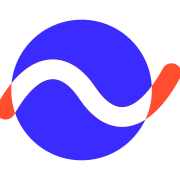
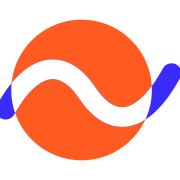
Orange theme; show pay where sources publish it
Claude-Session: https://claude.ai/code/session_013N9p52DarN9p1Kez5K4ikq

diff --git a/static/index.html b/static/index.html
@@ -17,8 +17,8 @@
    Pipeline tracks what you saved and applied to; Pulse reads the market from the same feed. */
 :root{
   --bg:#F4F4F6; --surface:#FFFFFF; --ink:#0D0D16; --muted:#5B5B6B; --line:#E1E1E8;
-  --accent:#3A2BFF; --accent-ink:#FFFFFF; --accent-soft:#ECEAFF;
-  --hot:#FF4D2E; --new:#C7300F; --new-soft:#FFE9E3;
+  --fill:#FF5A1F; --accent:#C2410C; --accent-ink:#0D0D16; --accent-soft:#FFEDE3;
+  --hot:#3A2BFF; --new:#3A2BFF; --new-soft:#ECEAFF;
   --apac:#0E7490; --world:#7C3AED; --locked:#BE123C;
   --display:"Bricolage Grotesque","Segoe UI",system-ui,sans-serif;
   --body:"Inter",system-ui,-apple-system,"Segoe UI",sans-serif;
@@ -40,7 +40,7 @@ header{padding-block:calc(16px + env(safe-area-inset-top,0px)) 0;display:flex;ga
 .brand{display:flex;align-items:center;gap:10px;text-decoration:none;color:var(--ink)}
 .brand svg{width:38px;height:38px;flex:none}
 .brand b{font:800 24px/1 var(--display);letter-spacing:-.035em}
-.brand b span{color:var(--accent)}
+.brand b span{color:var(--fill)}
 .meta{font:12px/1.4 var(--mono);color:var(--muted)}
 nav{display:flex;gap:2px;border:1px solid var(--line);border-radius:10px;padding:3px;background:var(--surface);margin-block:14px 6px;width:100%}
 nav a{flex:1;text-align:center;padding:8px 4px;border-radius:7px;font-size:14px;color:var(--muted);text-decoration:none;white-space:nowrap}
@@ -50,7 +50,7 @@ nav a .n{font:11px var(--mono);margin-left:4px;opacity:.8}
 /* shared bits */
 .btn{border:1px solid var(--line);background:var(--surface);border-radius:10px;padding:9px 14px;cursor:pointer;font-size:14px}
 .btn:hover{border-color:var(--accent)}
-.btn.pri{background:var(--accent);border-color:var(--accent);color:var(--accent-ink);font-weight:600}
+.btn.pri{background:var(--fill);border-color:var(--fill);color:var(--accent-ink);font-weight:600}
 .btn.sm{padding:5px 10px;font-size:13px;border-radius:8px}
 .lbl{font:600 10.5px/1 var(--body);letter-spacing:.08em;text-transform:uppercase;color:var(--muted)}
 .chips{display:flex;gap:6px;flex-wrap:wrap;align-items:center}
@@ -59,7 +59,8 @@ nav a .n{font:11px var(--mono);margin-left:4px;opacity:.8}
 .chip .n{font:11px var(--mono);opacity:.75;margin-left:4px}
 .t{font:500 11px/1 var(--mono);padding:4px 7px;border-radius:6px;border:1px solid var(--line);color:var(--muted);white-space:nowrap}
 .t.who{color:var(--c);border-color:color-mix(in srgb,var(--c) 45%,transparent);background:color-mix(in srgb,var(--c) 10%,transparent)}
-.t.hit{color:var(--accent-ink);background:var(--accent);border-color:var(--accent)}
+.t.hit{color:var(--accent-ink);background:var(--fill);border-color:var(--fill)}
+.t.pay{color:var(--ink);border-color:var(--ink)}
 .t.new{color:var(--new);background:var(--new-soft);border-color:transparent}
 .t.warn{color:var(--new);border-color:var(--new)}
 .tags{display:flex;gap:5px;flex-wrap:wrap;align-items:center}
@@ -77,7 +78,7 @@ h2{font:700 22px/1.25 var(--display);letter-spacing:-.02em;margin:18px 0 4px;tex
 .prog{display:flex;gap:4px;margin:10px 0 14px}
 .prog i{flex:1;height:4px;border-radius:2px;background:var(--line)}
 .prog i.done{background:var(--accent)}
-.prog i.cur{background:var(--hot)}
+.prog i.cur{background:var(--fill)}
 .deck{position:relative;padding-bottom:14px}
 .deck::before,.deck::after{content:"";position:absolute;left:10px;right:10px;bottom:7px;height:20px;border:1px solid var(--line);border-top:0;border-radius:0 0 10px 10px;background:var(--surface)}
 .deck::after{left:20px;right:20px;bottom:0}
@@ -149,7 +150,7 @@ ol.feed{list-style:none;margin:0;padding:0;display:grid;gap:8px}
 .bar .nm{overflow:hidden;text-overflow:ellipsis;white-space:nowrap}
 .bar .nm.mine{font-weight:600;color:var(--accent)}
 .bar .tr{height:10px;border-radius:5px;background:var(--bg);overflow:hidden}
-.bar .tr i{display:block;height:100%;border-radius:5px;background:var(--accent)}
+.bar .tr i{display:block;height:100%;border-radius:5px;background:var(--fill)}
 .bar .v{font:12px var(--mono);color:var(--muted);text-align:right;font-variant-numeric:tabular-nums}
 .split{display:flex;height:16px;border-radius:8px;overflow:hidden;gap:2px;margin-bottom:10px}
 .split i{display:block;background:var(--c);min-width:3px}
@@ -173,11 +174,11 @@ nav a[aria-current="page"]{background:var(--ink);color:#fff}
 .btn{border-radius:999px;font-weight:600;border-color:var(--ink)}
 .btn.sm{border-radius:999px}
 .btn:hover{border-color:var(--accent);color:var(--accent)}
-.btn.pri:hover{color:var(--accent-ink);background:var(--ink);border-color:var(--ink)}
+.btn.pri:hover{color:#fff;background:var(--ink);border-color:var(--ink)}
 .chip[aria-pressed="true"]{background:var(--ink);border-color:var(--ink);color:#fff}
 h2{font-weight:800;font-size:28px;letter-spacing:-.03em}
 .panel,.job,.pc{border-radius:14px}
-.card{border:2px solid var(--ink);border-radius:18px;box-shadow:6px 6px 0 var(--accent);padding:20px}
+.card{border:2px solid var(--ink);border-radius:18px;box-shadow:6px 6px 0 var(--fill);padding:20px}
 .card h3{font-weight:800;font-size:27px;letter-spacing:-.03em;line-height:1.1}
 .card .age{color:var(--accent);font-weight:500}
 .deck{padding:0 6px 6px 0}
@@ -185,7 +186,7 @@ h2{font-weight:800;font-size:28px;letter-spacing:-.03em}
 .acts{margin-top:18px}
 .prog i{height:6px;border-radius:3px}
 .prog i.done{background:var(--ink)}
-.stat b{color:var(--accent);font-size:34px}
+.stat b{color:var(--fill);font-size:34px}
 .out svg{width:84px}
 .out h3{font-weight:800;font-size:26px}
 .col h4{border-bottom-color:var(--ink)}
@@ -197,7 +198,7 @@ h2{font-weight:800;font-size:28px;letter-spacing:-.03em}
 <div class="wrap">
 <header>
   <a class="brand" href="#today">
-    <svg viewBox="0 0 64 64" aria-hidden="true"><clipPath id="in"><circle cx="29" cy="32" r="25"/></clipPath><circle cx="29" cy="32" r="25" fill="#3A2BFF"/><path d="M2 39 C12 21 23 21 31 33 S50 46 61 26" fill="none" stroke="#FF4D2E" stroke-width="7" stroke-linecap="round"/><path d="M2 39 C12 21 23 21 31 33 S50 46 61 26" fill="none" stroke="#FFFFFF" stroke-width="7" stroke-linecap="round" clip-path="url(#in)"/></svg>
+    <svg viewBox="0 0 64 64" aria-hidden="true"><clipPath id="in"><circle cx="29" cy="32" r="25"/></clipPath><circle cx="29" cy="32" r="25" fill="#FF5A1F"/><path d="M2 39 C12 21 23 21 31 33 S50 46 61 26" fill="none" stroke="#3A2BFF" stroke-width="7" stroke-linecap="round"/><path d="M2 39 C12 21 23 21 31 33 S50 46 61 26" fill="none" stroke="#FFFFFF" stroke-width="7" stroke-linecap="round" clip-path="url(#in)"/></svg>
     <b>shoreless<span>.dev</span></b>
   </a>
   <div style="display:flex;gap:10px;align-items:center;flex-wrap:wrap">
@@ -251,7 +252,7 @@ let batch=[],pos=0,undo=[],limit=60;
 const saveT=()=>store.set("triage",T);
 const saveP=()=>store.set("profile",P);
 const saveB=()=>store.set("browse",B);
-const snap=j=>({id:j.id,title:j.title,company:j.company,url:j.url,location:j.location,region:j.region,remote:j.remote,source:j.source});
+const snap=j=>({id:j.id,pay:j.pay,title:j.title,company:j.company,url:j.url,location:j.location,region:j.region,remote:j.remote,source:j.source});
 
 /* ---------- fit ---------- */
 function fit(j){
@@ -294,7 +295,7 @@ function undoLast(){const u=undo.pop();if(!u)return;if(u.prev)T[u.id]=u.prev;els
 function nextRefresh(){const d=new Date();const n=new Date(Date.UTC(d.getUTCFullYear(),d.getUTCMonth(),d.getUTCDate(),Math.floor(d.getUTCHours()/6)*6,20));
   while(n<=d)n.setUTCHours(n.getUTCHours()+6);const hrs=(n-d)/36e5;return hrs<1?Math.round(hrs*60)+" minutes":Math.round(hrs)+(Math.round(hrs)===1?" hour":" hours")}
 function horizon(){const s=document.createElementNS("http://www.w3.org/2000/svg","svg");s.setAttribute("viewBox","0 0 64 64");s.setAttribute("aria-hidden","true");
-  s.innerHTML='<clipPath id="in2"><circle cx="29" cy="32" r="25"/></clipPath><circle cx="29" cy="32" r="25" fill="#3A2BFF"/><path d="M2 39 C12 21 23 21 31 33 S50 46 61 26" fill="none" stroke="#FF4D2E" stroke-width="7" stroke-linecap="round"/><path d="M2 39 C12 21 23 21 31 33 S50 46 61 26" fill="none" stroke="#FFFFFF" stroke-width="7" stroke-linecap="round" clip-path="url(#in2)"/>';return s}
+  s.innerHTML='<clipPath id="in2"><circle cx="29" cy="32" r="25"/></clipPath><circle cx="29" cy="32" r="25" fill="#FF5A1F"/><path d="M2 39 C12 21 23 21 31 33 S50 46 61 26" fill="none" stroke="#3A2BFF" stroke-width="7" stroke-linecap="round"/><path d="M2 39 C12 21 23 21 31 33 S50 46 61 26" fill="none" stroke="#FFFFFF" stroke-width="7" stroke-linecap="round" clip-path="url(#in2)"/>';return s}
 
 function vToday(){
   const el=h("div",{class:"today"});
@@ -329,7 +330,8 @@ function vToday(){
       h("div",{},h("dt",{},"Where"),h("dd",{},j.location||(j.remote?"Remote":"—"))),
       h("div",{},h("dt",{},"Apply"),h("dd",{},direct(j)?"Direct to employer":"via "+j.source)),
       h("div",{},h("dt",{},"Posted"),h("dd",{},j.posted?ago(j.posted)+" ago":"Date not given")),
-      h("div",{},h("dt",{},"Role"),h("dd",{},j.role+(j.level==="Senior+"?" · Senior+":"")))),
+      h("div",{},h("dt",{},"Pay"),h("dd",{},j.pay||"Not listed")),
+      h("div",{},h("dt",{},"Role"),h("dd",{},j.role+(j.level==="Senior+"?" · Senior+":"")+(j.etype?" · "+j.etype:"")))),
     (j.stack||[]).length?h("div",{class:"tags"},stackTags(j,8)):null,
     h("p",{class:"why"},reasons.length?["Ranked here because it ",reasons.flatMap((r,i)=>[i?(i===reasons.length-1?" and ":", "):"",r]),"."]:"Ranked on role and region only. Its description names none of your stack."),
     h("a",{class:"open",href:j.url,target:"_blank",rel:"noopener"},"Read the full posting ↗"));
@@ -363,6 +365,7 @@ function browseList(ignore){
     if(ignore!=="stack"&&B.stacks.length&&!B.stacks.some(x=>(j.stack||[]).includes(x)))return false;
     if(B.direct&&!direct(j))return false;
     if(B.supply&&!j.supply)return false;
+    if(B.pay&&!j.pay)return false;
     if(B.senior&&j.level!=="Senior+")return false;
     if(j.posted&&j.posted<cut)return false;
     if(q&&!(j.title+" "+j.company+" "+j.location+" "+(j.stack||[]).join(" ")).toLowerCase().includes(q))return false;
@@ -392,7 +395,7 @@ function vBrowse(){
       return h("li",{class:"job"+(j._new?" is-new":"")+(st==="pass"?" dim":"")},
         h("div",{class:"top"},h("a",{class:"title",href:j.url,target:"_blank",rel:"noopener"},j.title),h("span",{class:"age"},ago(j.posted))),
         h("div",{class:"co"},j.company||"—",j.location&&h("span",{}," · "+j.location)),
-        h("div",{class:"tags"},j._new&&tag("NEW","new"),whoTag(j),tag(direct(j)?"Direct":"via "+j.source),stackTags(j,4),j.supply&&tag("Supply chain"),
+        h("div",{class:"tags"},j._new&&tag("NEW","new"),whoTag(j),j.pay&&tag(j.pay,"pay"),tag(direct(j)?"Direct":"via "+j.source),stackTags(j,4),j.supply&&tag("Supply chain"),
           h("span",{class:"ra"},
             st&&st!=="pass"&&st!=="saved"?tag(STAGES.find(s=>s[0]===st)[1]):
               h("button",{class:"ic",type:"button","aria-pressed":String(st==="saved"),onclick:()=>{setStage(j,st==="saved"?null:"saved");paintList()}},st==="saved"?"★ Saved":"☆ Save"),
@@ -408,7 +411,7 @@ function vBrowse(){
     h("div",{class:"line"},h("span",{class:"lbl"},"Role"),ROLES.map(r=>chip(r,R.includes(r),()=>{tog(R,r);re()},cr[r]||0))),
     h("div",{class:"line"},h("span",{class:"lbl"},"Stack"),topS.map(s=>chip(s,B.stacks.includes(s),()=>{tog(B.stacks,s);re()},cs[s]||0))),
     h("div",{class:"line"},h("span",{class:"lbl"},"Only"),
-      chip("Direct apply",B.direct,()=>{B.direct=!B.direct;re()}),chip("Supply chain",B.supply,()=>{B.supply=!B.supply;re()}),
+      chip("Shows pay",B.pay,()=>{B.pay=!B.pay;re()}),chip("Direct apply",B.direct,()=>{B.direct=!B.direct;re()}),chip("Supply chain",B.supply,()=>{B.supply=!B.supply;re()}),
       chip("Senior+",B.senior,()=>{B.senior=!B.senior;re()}),chip("Hide passed",B.hidePassed,()=>{B.hidePassed=!B.hidePassed;re()}))),
     count,list,more);
   paintList();return el;
@@ -452,7 +455,7 @@ function vPulse(){
       h("div",{class:"panel stat"},h("b",{},String(open.length)),h("span",{},"roles you can apply to")),
       h("div",{class:"panel stat"},h("b",{},String(wk.length)),h("span",{},"of them posted in the last 7 days")),
       h("div",{class:"panel stat"},h("b",{},pct(open.filter(direct).length,open.length)+"%"),h("span",{},"apply direct to the employer")),
-      h("div",{class:"panel stat"},h("b",{},pct(cw.locked||0,jobs.length)+"%"),h("span",{},"of all roles in the feed are region-locked"))));
+      h("div",{class:"panel stat"},h("b",{},pct(open.filter(j=>j.pay).length,open.length)+"%"),h("span",{},"state their pay"))));
   const cs={};open.forEach(j=>(j.stack||[]).forEach(x=>cs[x]=(cs[x]||0)+1));
   const top=Object.entries(cs).sort((a,b)=>b[1]-a[1]).slice(0,12);
   const core=P.stacks.filter(x=>!GENERIC.has(x));

diff --git a/sources.py b/sources.py
@@ -37,17 +37,51 @@ def _strip(h):
     return html.unescape(re.sub(r"<[^>]+>", " ", h or "")).strip()
 
 
+def _num(x):
+    try:
+        v = float(x)
+        return v if v > 0 else None
+    except (TypeError, ValueError):
+        return None
+
+
+def _rng(lo, hi, cur, per="yr"):
+    lo, hi = _num(lo), _num(hi)
+    if not lo and not hi:
+        return None
+    return {"min": lo or hi, "max": hi or lo, "cur": (cur or "USD").upper(), "per": per}
+
+
+def _gh_pay(j):
+    r = j.get("pay_input_ranges") or []
+    if not r:
+        return None
+    return _rng((r[0].get("min_cents") or 0) / 100, (r[0].get("max_cents") or 0) / 100, r[0].get("currency_type"))
+
+
+def _lever_pay(j):
+    sr = j.get("salaryRange") or {}
+    iv = (sr.get("interval") or "").lower()
+    return _rng(sr.get("min"), sr.get("max"), sr.get("currency"), "hr" if "hour" in iv else "mo" if "month" in iv else "yr")
+
+
+def _ashby_pay(j):
+    c = j.get("compensation") or {}
+    t = c.get("scrapeableCompensationSalarySummary") or c.get("compensationTierSummary")
+    return {"text": t.split(" \u2022 ")[0].strip()[:40]} if t else None
+
+
 # ---------- company boards (ATS) ----------
 
 def greenhouse(slug, name, tags):
-    data = _get(f"https://boards-api.greenhouse.io/v1/boards/{slug}/jobs", params={"content": "true"}).json()
+    data = _get(f"https://boards-api.greenhouse.io/v1/boards/{slug}/jobs", params={"content": "true", "pay_transparency": "true"}).json()
     out = []
     for j in data.get("jobs", []):
         out.append(dict(
             title=j.get("title"), company=name, url=j.get("absolute_url"),
             location=(j.get("location") or {}).get("name", ""), remote=None, restrictions=None,
             posted=_iso(j.get("first_published") or j.get("updated_at")), tags=tags,
-            desc=_strip(html.unescape(j.get("content") or "")),
+            desc=_strip(html.unescape(j.get("content") or "")), pay=_gh_pay(j),
         ))
     return out
 
@@ -65,12 +99,13 @@ def lever(slug, name, tags):
             remote=True if wt == "remote" else None, restrictions=None,
             posted=int(j["createdAt"] / 1000) if j.get("createdAt") else None, tags=tags,
             desc=(j.get("descriptionPlain") or "") + " " + " ".join(_strip(l.get("content", "")) for l in j.get("lists") or []),
+            pay=_lever_pay(j),
         ))
     return out
 
 
 def ashby(slug, name, tags):
-    data = _get(f"https://api.ashbyhq.com/posting-api/job-board/{slug}").json()
+    data = _get(f"https://api.ashbyhq.com/posting-api/job-board/{slug}", params={"includeCompensation": "true"}).json()
     out = []
     for j in data.get("jobs", []):
         locs = [j.get("location") or ""] + [s.get("location", "") for s in j.get("secondaryLocations") or []]
@@ -81,7 +116,7 @@ def ashby(slug, name, tags):
         out.append(dict(
             title=j.get("title"), company=name, url=j.get("jobUrl"), location=loc,
             remote=remote, restrictions=None, posted=_iso(j.get("publishedAt")), tags=tags,
-            desc=j.get("descriptionPlain") or _strip(j.get("descriptionHtml")),
+            desc=j.get("descriptionPlain") or _strip(j.get("descriptionHtml")), pay=_ashby_pay(j),
         ))
     return out
 
@@ -141,6 +176,7 @@ def remotive():
                 title=j.get("title"), company=j.get("company_name"), url=j.get("url"),
                 location=j.get("candidate_required_location") or "Worldwide", remote=True, restrictions=None,
                 posted=_iso(j.get("publication_date")), tags=[], desc=_strip(j.get("description")),
+                pay_text=j.get("salary"),
             ))
     return out
 
@@ -161,6 +197,7 @@ def remoteok():
             location=j.get("location") or "Worldwide", remote=True, restrictions=None,
             posted=int(j["epoch"]) if j.get("epoch") else _iso(j.get("date")), tags=[],
             desc=_strip(j.get("description")) + " " + " ".join(j.get("tags") or []),
+            pay=_rng(j.get("salary_min"), j.get("salary_max"), "USD"),
         ))
     return out
 
@@ -177,6 +214,8 @@ def himalayas():
                 restrictions=j.get("locationRestrictions") or [],
                 posted=int(j["pubDate"]) if isinstance(j.get("pubDate"), (int, float)) else _iso(j.get("pubDate")),
                 tags=[], desc=_strip(j.get("description") or j.get("excerpt")),
+                pay=_rng(j.get("minSalary"), j.get("maxSalary"), j.get("currency") or j.get("salaryCurrency")),
+                etype=j.get("employmentType"),
             ))
         if len(jobs) < 20:
             break
@@ -198,6 +237,8 @@ def himalayas():
                 restrictions=j.get("locationRestrictions") or [],
                 posted=int(j["pubDate"]) if isinstance(j.get("pubDate"), (int, float)) else _iso(j.get("pubDate")),
                 tags=[], desc=_strip(j.get("description") or j.get("excerpt")),
+                pay=_rng(j.get("minSalary"), j.get("maxSalary"), j.get("currency") or j.get("salaryCurrency")),
+                etype=j.get("employmentType"),
             ))
         time.sleep(0.25)
     return out
@@ -216,6 +257,7 @@ def jobicy():
                 title=_strip(j.get("jobTitle")), company=j.get("companyName"), url=j.get("url"),
                 location=j.get("jobGeo") or "", remote=True, restrictions=None,
                 posted=_iso(j.get("pubDate")), tags=[], desc=_strip(j.get("jobDescription") or j.get("jobExcerpt")),
+                pay=_rng(j.get("annualSalaryMin"), j.get("annualSalaryMax"), j.get("salaryCurrency")),
             ))
     return out
 

diff --git a/classify.py b/classify.py
@@ -161,3 +161,61 @@ def is_supply(title, company, desc=""):
     if SUPPLY.search(title or "") or SUPPLY_STRONG.search(company or ""):
         return True
     return len(SUPPLY_STRONG.findall(desc or "")) >= 3
+
+
+# ---------- pay ----------
+SYM = {"USD": "$", "EUR": "\u20ac", "GBP": "\u00a3", "INR": "\u20b9", "CAD": "C$", "AUD": "A$", "SGD": "S$"}
+
+
+def _n(x, cur):
+    if cur == "INR" and x >= 1e5:
+        return f"{x / 1e5:.3g}L"
+    if x >= 1000:
+        return f"{x / 1000:.3g}k"
+    return f"{x:g}"
+
+
+def fmt_pay(pay):
+    """{'min','max','cur','per'} or {'text'} -> short display string."""
+    if not pay:
+        return ""
+    if pay.get("text"):
+        return pay["text"]
+    lo, hi, cur, per = pay["min"], pay["max"], pay.get("cur") or "USD", pay.get("per") or "yr"
+    if per == "yr" and hi < 500:
+        per = "hr"
+    sym = SYM.get(cur, cur + " ")
+    body = f"{sym}{_n(lo, cur)}" if lo == hi else f"{sym}{_n(lo, cur)}\u2013{_n(hi, cur)}"
+    return f"{body}/{per}"
+
+
+_CUR = r"(US\$|\$|USD|\u20ac|EUR|\u00a3|GBP|\u20b9|INR|Rs\.?)"
+_AMT = r"(\d{1,3}(?:,\d{3})+|\d{2,3}(?:\.\d)?\s?[kK])"
+_RANGE = re.compile(_CUR + r"\s?" + _AMT + r"\s?(?:-|\u2013|\u2014|to)\s?" + _CUR + r"?\s?" + _AMT)
+_LPA = re.compile(r"(\d{1,3}(?:\.\d+)?)\s?(?:-|\u2013|to)\s?(\d{1,3}(?:\.\d+)?)\s?(?:LPA|lakhs?\b|lacs?\b)", re.I)
+_CURMAP = {"$": "USD", "US$": "USD", "USD": "USD", "\u20ac": "EUR", "EUR": "EUR", "\u00a3": "GBP", "GBP": "GBP",
+           "\u20b9": "INR", "INR": "INR", "RS": "INR", "RS.": "INR"}
+
+
+def _amt(t):
+    t = t.replace(",", "").strip().lower()
+    return float(t[:-1]) * 1000 if t.endswith("k") else float(t)
+
+
+def pay_from_text(text):
+    """Find a stated pay range in a job description. Conservative: needs a currency and a range."""
+    if not text:
+        return ""
+    m = _LPA.search(text)
+    if m:
+        lo, hi = float(m.group(1)), float(m.group(2))
+        if 1 <= lo <= hi <= 200:
+            return fmt_pay({"min": lo * 1e5, "max": hi * 1e5, "cur": "INR", "per": "yr"})
+    m = _RANGE.search(text)
+    if m:
+        lo, hi = _amt(m.group(2)), _amt(m.group(4))
+        if 1000 <= lo <= hi <= lo * 4:
+            tail = text[m.end():m.end() + 40].lower()
+            per = "hr" if "hour" in tail else "mo" if "month" in tail else "yr"
+            return fmt_pay({"min": lo, "max": hi, "cur": _CURMAP.get(m.group(1).upper(), "USD"), "per": per})
+    return ""

diff --git a/app.py b/app.py
@@ -21,6 +21,13 @@ state = {"jobs": [], "sources": [], "updated": None, "refreshing": False, "start
 lock = threading.Lock()
 
 
+def _pay(raw, desc):
+    t = classify.fmt_pay(raw.get("pay"))
+    if not t and raw.get("pay_text") and len(raw["pay_text"]) <= 40 and any(c.isdigit() for c in raw["pay_text"]):
+        t = raw["pay_text"].strip()
+    return t or classify.pay_from_text(desc)
+
+
 def normalize(raw, source):
     title = (raw.get("title") or "").strip()
     body = raw.get("body") or ""
@@ -59,6 +66,7 @@ def normalize(raw, source):
         location=(loc or ("Worldwide" if region == "Worldwide" else ""))[:160],
         region=region, remote=bool(remote_flag), role=role, level=classify.level_of(title),
         supply=supply, posted=posted, source=source,
+        pay=_pay(raw, desc), etype=(raw.get("etype") or "")[:20],
         stack=sorted(stack, key=lambda k: (k in ("Python", "SQL"), list(classify.STACK).index(k)))[:6],
     )
 
